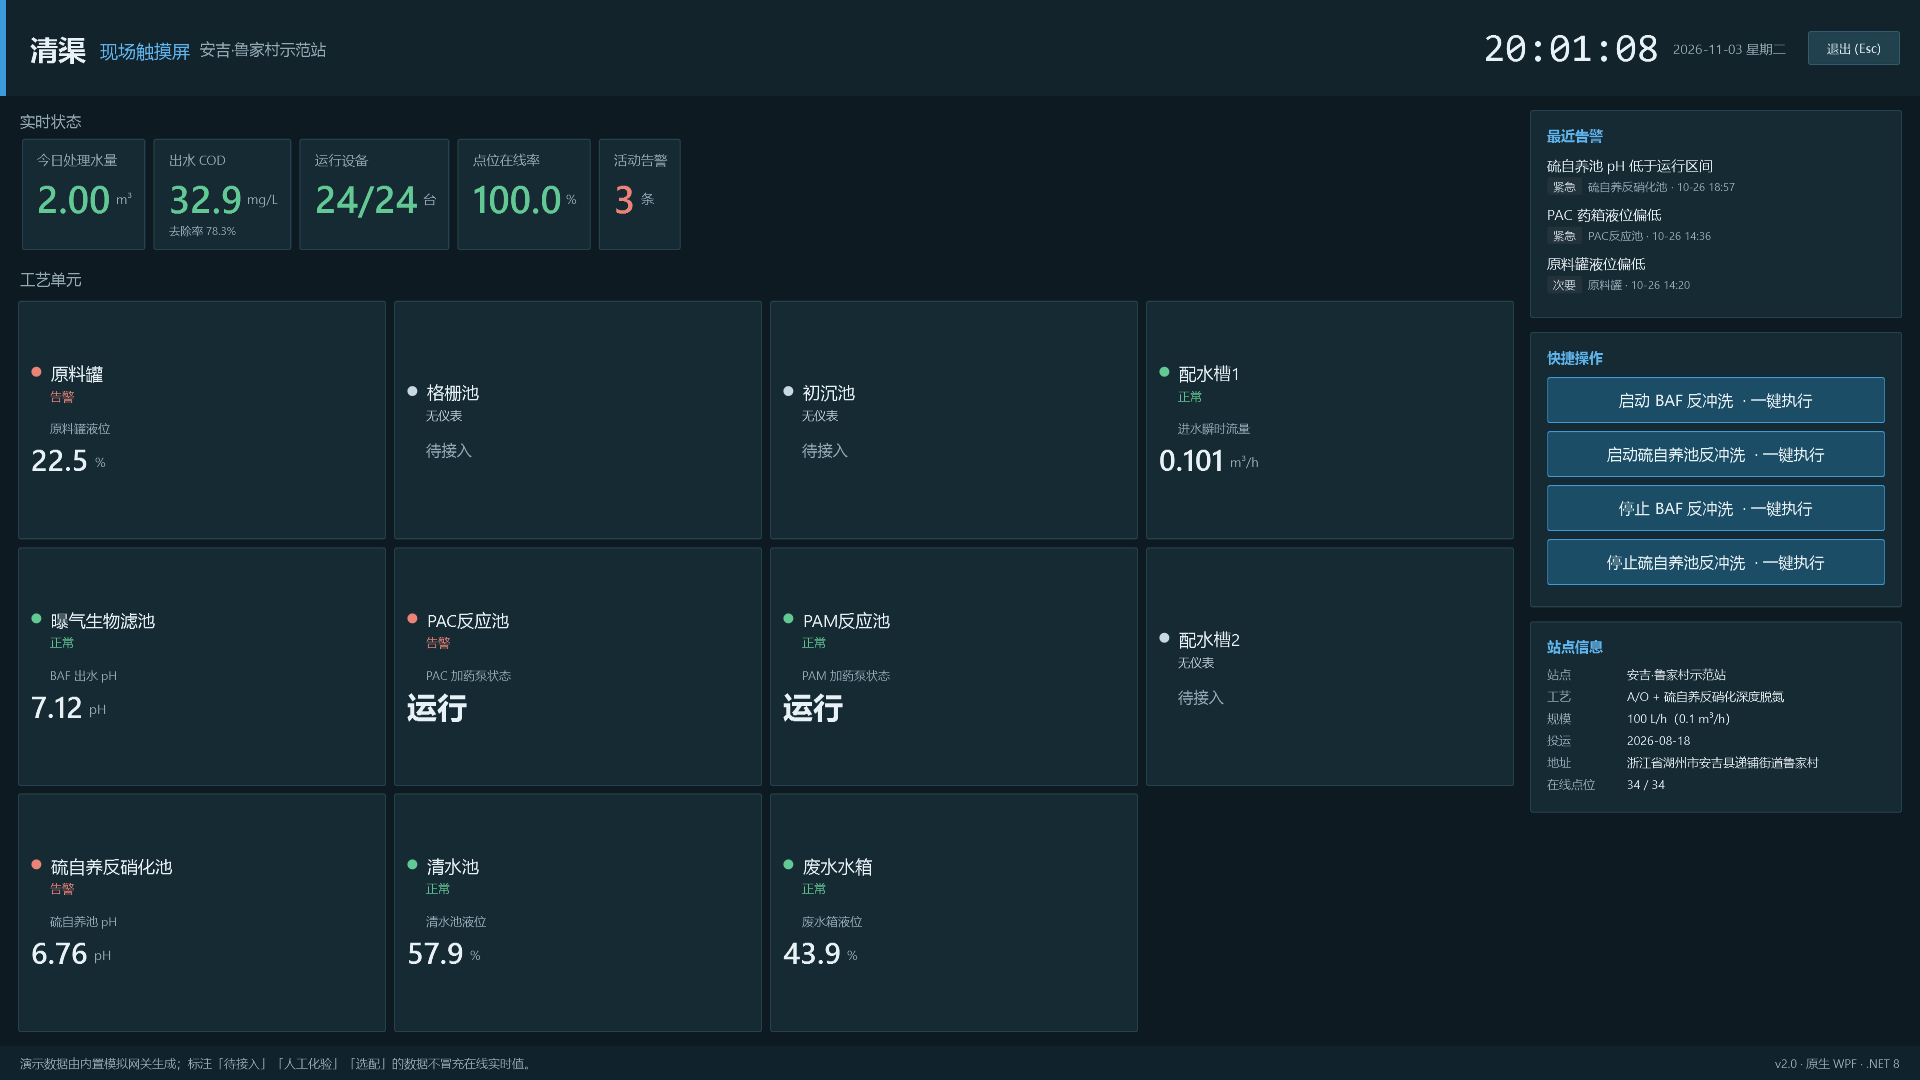
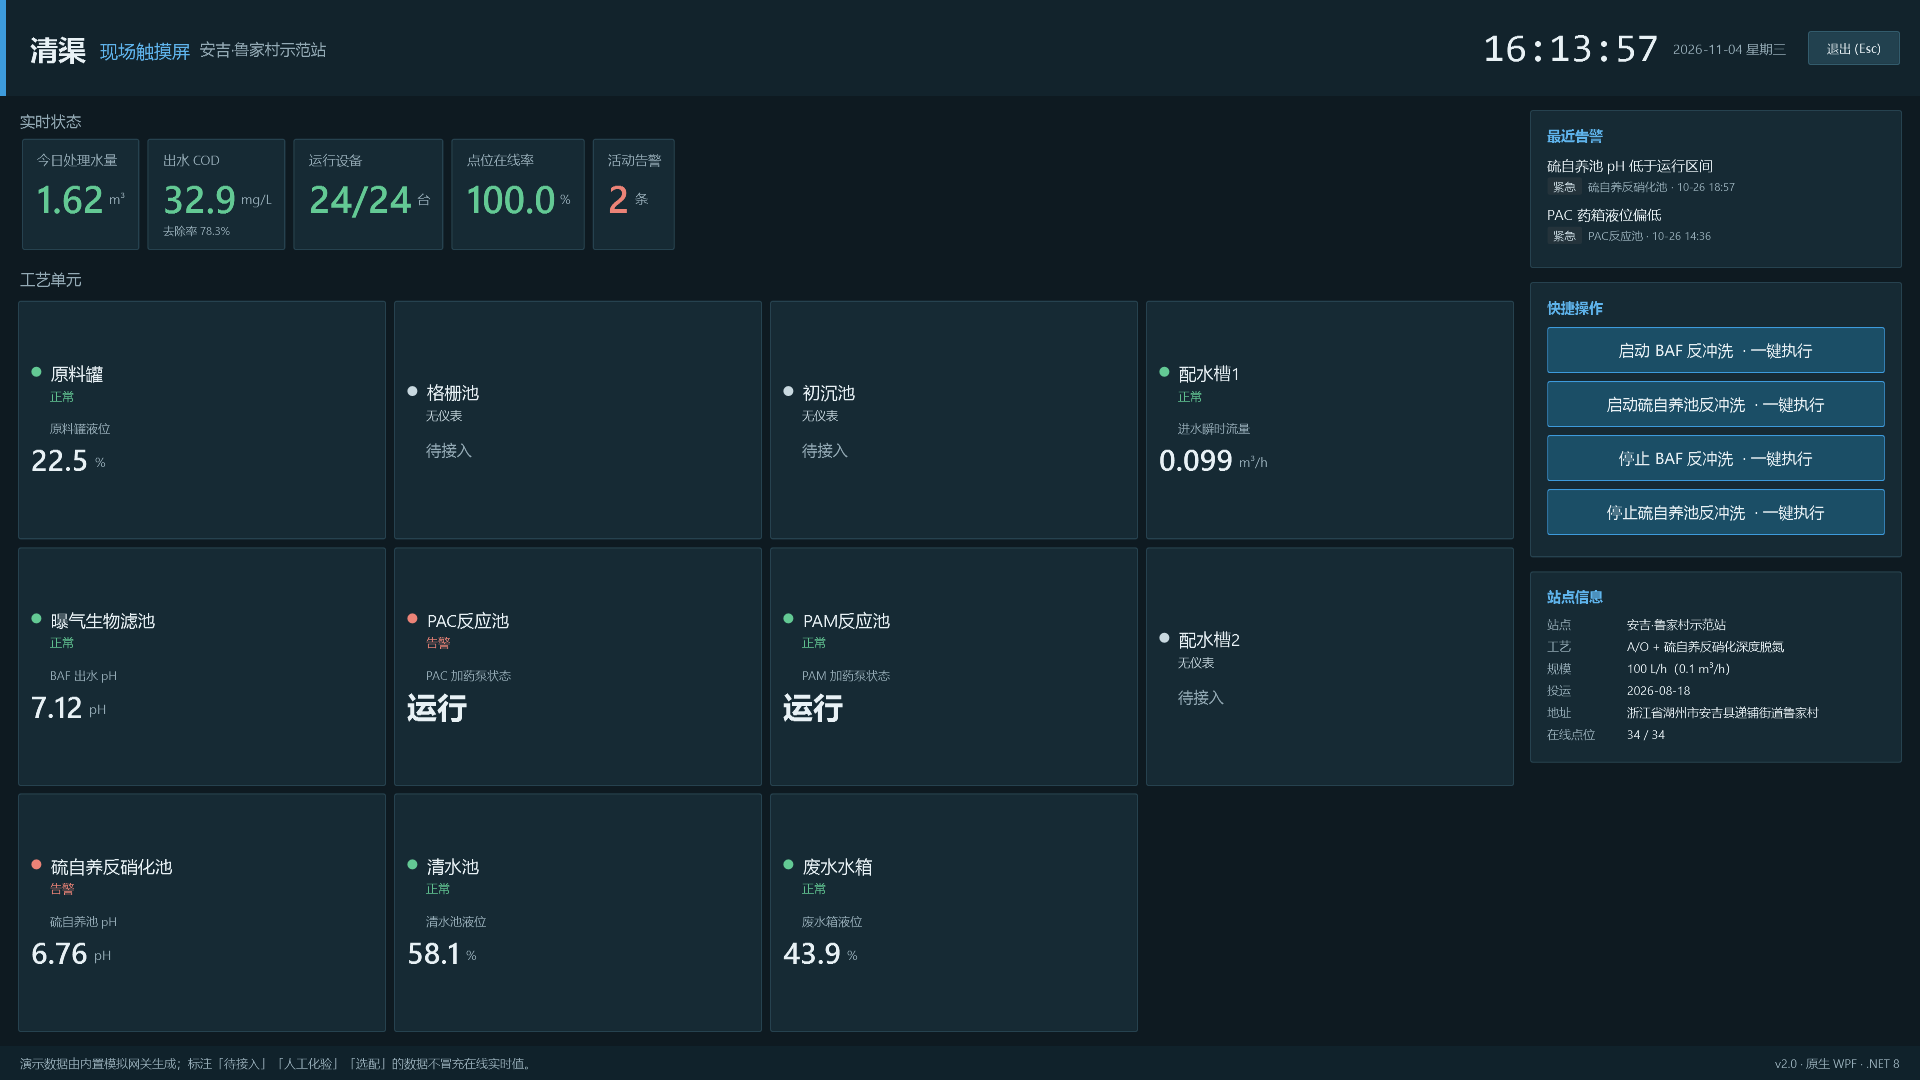
chore: 版本 2.0.11，自动控制与表格滚动修复，截图按新版重出

diff --git a/native/ZhifuWater.Desktop/Windows/LoginWindow.xaml b/native/ZhifuWater.Desktop/Windows/LoginWindow.xaml
@@ -108,7 +108,7 @@
                         Style="{DynamicResource PrimaryButton}" Foreground="#FFFFFFFF" Background="#FF0E7C74" IsDefault="True" Click="OnLoginClick" />
             </StackPanel>
 
-            <TextBlock Text="v2.0.10" FontSize="11" Foreground="{DynamicResource Muted2}"
+            <TextBlock Text="v2.0.11" FontSize="11" Foreground="{DynamicResource Muted2}"
                        HorizontalAlignment="Right" VerticalAlignment="Bottom" Margin="0,0,20,16" />
         </Grid>
         <Button Style="{DynamicResource CaptionCloseButton}" HorizontalAlignment="Right" VerticalAlignment="Top"

diff --git a/native/ZhifuWater.Desktop/Windows/MainWindow.xaml b/native/ZhifuWater.Desktop/Windows/MainWindow.xaml
@@ -36,7 +36,7 @@
 
                 <Border DockPanel.Dock="Bottom" Padding="16,8,14,12">
                     <Grid>
-                        <TextBlock Text="v2.0.10" FontSize="10" Foreground="#5F8580" VerticalAlignment="Center" />
+                        <TextBlock Text="v2.0.11" FontSize="10" Foreground="#5F8580" VerticalAlignment="Center" />
                         <TextBlock Text="本机运行" FontSize="10" Foreground="#5F8580" HorizontalAlignment="Right" VerticalAlignment="Center" />
                     </Grid>
                 </Border>

diff --git a/README.md b/README.md
@@ -23,16 +23,16 @@
 
 | 端 | 安装包 | 说明 |
 | --- | --- | --- |
-| Windows 桌面版 | [`Qingqu-Setup-2.0.10.exe`](https://github.com/LN334/qingqu/releases/download/v2.0.10/Qingqu-Setup-2.0.10.exe)（约 49 MB） | C# / WPF 原生程序，自包含 .NET 运行时，安装即用 |
-| 现场触摸屏 | [`Qingqu-Kiosk-Setup-2.0.10.exe`](https://github.com/LN334/qingqu/releases/download/v2.0.10/Qingqu-Kiosk-Setup-2.0.10.exe)（约 50 MB） | 给现场机器安装：开机自启、全屏大字值守，无登录页 |
-| 安卓 App | [`zhifu-water-mobile.apk`](https://github.com/LN334/qingqu/releases/download/v2.0.10/zhifu-water-mobile.apk)（约 190 KB） | 原生 Android（Java + 框架 API，非 WebView）；不填服务器也能用 |
+| Windows 桌面版 | [`Qingqu-Setup-2.0.11.exe`](https://github.com/LN334/qingqu/releases/download/v2.0.11/Qingqu-Setup-2.0.11.exe)（约 49 MB） | C# / WPF 原生程序，自包含 .NET 运行时，安装即用 |
+| 现场触摸屏 | [`Qingqu-Kiosk-Setup-2.0.11.exe`](https://github.com/LN334/qingqu/releases/download/v2.0.11/Qingqu-Kiosk-Setup-2.0.11.exe)（约 50 MB） | 给现场机器安装：开机自启、全屏大字值守，无登录页 |
+| 安卓 App | [`zhifu-water-mobile.apk`](https://github.com/LN334/qingqu/releases/download/v2.0.11/zhifu-water-mobile.apk)（约 190 KB） | 原生 Android（Java + 框架 API，非 WebView）；不填服务器也能用 |
 | Web 版 | 本仓库源码 | `node server/index.js`，浏览器打开 `http://127.0.0.1:8765` |
 
-> 全部版本与 SHA256 见 [Releases · v2.0.10](https://github.com/LN334/qingqu/releases/tag/v2.0.10)。仓库不提交二进制产物，也可按「构建」章节自行打包。
+> 全部版本与 SHA256 见 [Releases · v2.0.11](https://github.com/LN334/qingqu/releases/tag/v2.0.11)。仓库不提交二进制产物，也可按「构建」章节自行打包。
 
-**版本口径：** 平台发布版本以根目录 `package.json` 为准，服务端 API 和 Web 界面从该版本读取；Windows 桌面与 kiosk 的程序集、安装包版本需与平台发布版本保持一致。Android 是独立发布的原生客户端，APK 版本以 `android/AndroidManifest.xml` 为准，当前源码与 v2.0.10 Release 内的 APK 均为 **2.2.0（versionCode 6）**。`desktop/` 下的 Electron 包为 v1.x 遗留项目，不属于当前 Windows 桌面版。
+**版本口径：** 平台发布版本以根目录 `package.json` 为准，服务端 API 和 Web 界面从该版本读取；Windows 桌面与 kiosk 的程序集、安装包版本需与平台发布版本保持一致。Android 是独立发布的原生客户端，APK 版本以 `android/AndroidManifest.xml` 为准，当前源码与 v2.0.11 Release 内的 APK 均为 **2.2.0（versionCode 6）**。`desktop/` 下的 Electron 包为 v1.x 遗留项目，不属于当前 Windows 桌面版。
 
-**发布范围：** Releases 只提供 Windows 桌面版、现场触摸屏与 Android APK 三个可安装产物；Web 端以源码方式提供，不含托管服务。desktop/ 的 Electron 遗留壳与 _preview/、native/publish* 等构建产物不发布、不入库。当前版本 2.0.10（2026-11-03）。
+**发布范围：** Releases 只提供 Windows 桌面版、现场触摸屏与 Android APK 三个可安装产物；Web 端以源码方式提供，不含托管服务。desktop/ 的 Electron 遗留壳与 _preview/、native/publish* 等构建产物不发布、不入库。当前版本 2.0.11（2026-11-04）。
 
 各端实际能力、数据持久化位置和同步边界见 [当前架构与端能力](docs/ARCHITECTURE-STATUS.md)。
 
@@ -42,7 +42,7 @@
 
 ### 方式一：Windows 桌面版（推荐）
 
-1. 下载最新已发布的 `Qingqu-Setup-2.0.10.exe`，双击安装（可选择安装目录、创建桌面与开始菜单快捷方式）。
+1. 下载最新已发布的 `Qingqu-Setup-2.0.11.exe`，双击安装（可选择安装目录、创建桌面与开始菜单快捷方式）。
 2. 从桌面「清渠」启动。原生窗口，不需要浏览器、不需要 Node.js。
 3. 用演示账号登录；首次启动会把内置种子数据复制到 `%LOCALAPPDATA%\ZhifuWater\data\db.json`，之后的数据读写都在本机。
 
@@ -67,7 +67,7 @@ node server/index.js
 
 服务器默认只允许本机访问。需要让同一局域网的手机连接时，使用 `node server/index.js --host 0.0.0.0`，并在受控网络中运行。
 
-Web 端与桌面端同为 2.0.10：品牌、浅色水务蓝界面、数据模型一致；现场触摸屏入口不在侧栏，直接访问 `http://127.0.0.1:8765/#/kiosk` 进入全屏视图。
+Web 端与桌面端同为 2.0.11：品牌、浅色水务蓝界面、数据模型一致；现场触摸屏入口不在侧栏，直接访问 `http://127.0.0.1:8765/#/kiosk` 进入全屏视图。
 
 ### 演示账号
 
@@ -96,6 +96,7 @@ Web 端与桌面端同为 2.0.10：品牌、浅色水务蓝界面、数据模型
 | 水质与化验 | 在线 pH/DO/液位/流量与**人工化验**双来源分离；化验录入、复核（通过/驳回）、QC 标记、去除率与达标判定（参考 GB 18918 一级 A） |
 | 工艺参数与配方 | 12 个参数、三类写入模式（云端直接 / 审批 / 现场设定）、版本历史与回滚、审批（禁止自审） |
 | 远程控制中心 | 11 个动作、命令状态机（待确认→待下发→已下发→执行中→成功/失败/超时/取消）、PLC 联锁校验、执行理由、回执与审计 |
+| 自动控制 | 8 条内置规则：压差高自动反冲洗、溶解氧低自动加曝气、低液位保护停泵、来水恢复自动启泵、药箱低液位停加药、紧急告警自动派发抢修工单；带持续判定、冷却时间与当日次数上限，每次执行写命令记录与审计 |
 | 智能告警中心 | 15 条规则（阈值+持续时长+迟滞+升级+联锁条件）、四级告警、确认/恢复/关闭、MTTA/MTTR 统计 |
 | 智能诊断 | 现象—可能原因—检查项—边界—依据（点位/趋势/规则/数据时间）—建议，7 类诊断模型 |
 | 数据分析 | 水量、能耗、药耗、成本、去除率、单元效率、设备健康、告警统计（7/30 天） |
@@ -105,7 +106,7 @@ Web 端与桌面端同为 2.0.10：品牌、浅色水务蓝界面、数据模型
 | 系统管理 | 用户/角色/设置/通知通道/审计日志/备份与恢复 |
 | 权限与数据范围 | 6 角色 × 功能权限，站点范围双重校验；业务层拒绝越权（界面只做展示层禁用） |
 | 安卓 App | 原生 5 Tab（总览 / 监测 / 告警 / 工单 / 更多）：点位实时值与 24 小时曲线、水质化验与复核、设备台账、智能诊断、巡检执行都在手机上；本机 SQLite + 5 秒实时引擎，可离线；也可连服务器 |
-| 现场触摸屏（独立模式） | 给现场机器用的全屏大字值守界面（1920×1080 / 1366×768），**不在电脑端侧栏里**；由单独的 `Qingqu-Kiosk-Setup-2.0.10.exe` 安装，开机自启：站点状态、6 项关键读数、11 单元工艺链、告警一键确认、BAF 反冲洗快捷操作，3 秒自动刷新 |
+| 现场触摸屏（独立模式） | 给现场机器用的全屏大字值守界面（1920×1080 / 1366×768），**不在电脑端侧栏里**；由单独的 `Qingqu-Kiosk-Setup-2.0.11.exe` 安装，开机自启：站点状态、6 项关键读数、11 单元工艺链、告警一键确认、BAF 反冲洗快捷操作，3 秒自动刷新 |
 | 多端同源 | 桌面端与安卓端共用同一套业务规则与数据模型（桌面 C# Core、安卓 LocalCore 各自移植），Web 端可作为服务端 |
 
 ---
@@ -180,7 +181,7 @@ native\publish\Qingqu.exe --smoke
 
 # 安装包（NSIS）
 & "C:\Program Files (x86)\NSIS\makensis.exe" native\installer\setup.nsi
-# 产物：native/installer/Qingqu-Setup-2.0.10.exe
+# 产物：native/installer/Qingqu-Setup-2.0.11.exe
 ```
 
 ### 安卓端（需 JDK 17 + Android SDK build-tools/platform 34）
@@ -229,6 +230,8 @@ node scripts/smoke.js        # 78 项接口冒烟
 | 告警中心 | 远程控制（命令状态机） |
 | ![工单管理](docs/screenshots/native/page-workorders.png) | ![设备台账](docs/screenshots/native/page-devices.png) |
 | 工单管理 | 设备台账 |
+| ![自动控制](docs/screenshots/native/page-automation.png) | ![报表中心](docs/screenshots/native/page-reports.png) |
+| 自动控制（8 条规则） | 报表中心 |
 | ![登录页](docs/screenshots/native/login.png) | ![现场触摸屏](docs/screenshots/native/kiosk.png) |
 | 登录页（C# / WPF） | 现场触摸屏（1920×1080） |
 
